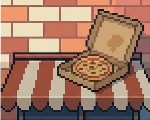
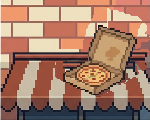
Respaldo: derrotas jugosas en curso
Claude-Session: https://claude.ai/code/session_01WbR3FeT1XB9M7gFpgwas9J

Changed region(s): [[0.3467, 0.05, 1.0, 0.825]]

diff --git a/siete-vidas/herramientas/preparar_arte_nivel.py b/siete-vidas/herramientas/preparar_arte_nivel.py
@@ -862,6 +862,50 @@ PIEZAS_CONSISTENCIA = {
 }
 # El toldo del pasillo, un poco más oscuro (B2): sus rayas terracota y crema bajan este factor de luz.
 OSCURECER_TOLDO = 0.85
+# La caja de pizza parecía flotar contra los ladrillos (lección 4): se recorta por su contorno, se achica y se apoya
+# con la base sobre el toldo (fila BASE_PIZZA de la vista). Detrás se repone la pared y el toldo en espejo.
+ESCALA_PIZZA = 0.85
+BASE_PIZZA = 97
+CORRIMIENTO_FONDO = 52
+
+
+def pizza_en_el_toldo(imagen):
+    """Baja la caja de pizza de la vista del pasillo para que se apoye en el toldo; devuelve la imagen, su caja
+    (x0, y0, x1, y1) y la máscara de la caja."""
+    a = np.asarray(imagen.convert("RGBA")).copy()
+    lum = a[:, :, :3].astype(int) @ np.array([0.299, 0.587, 0.114])
+    zona = np.zeros(lum.shape, bool)
+    zona[0:98, 57:150] = True
+    contorno = ndimage.binary_closing((lum < 100) & zona, structure=np.ones((3, 3)), iterations=2)
+    lleno = ndimage.binary_fill_holes(contorno)
+    etiquetas, cantidad = ndimage.label(lleno)
+    tamanos = ndimage.sum(lleno, etiquetas, range(1, cantidad + 1))
+    caja = etiquetas == (int(np.argmax(tamanos)) + 1)
+    ys, xs = np.where(caja)
+    recorte = a[ys.min():ys.max() + 1, xs.min():xs.max() + 1].copy()
+    recorte[~caja[ys.min():ys.max() + 1, xs.min():xs.max() + 1], 3] = 0
+    # Fondo: la misma vista corrida a la izquierda, donde no hay caja.
+    fondo = a.copy()
+    # Lo que tapaba la caja se repone en espejo desde el borde izquierdo de la caja (ladrillos y rayas del toldo
+    # siguen sin cortes); lo que no alcanza, desde CORRIMIENTO_FONDO px a la izquierda.
+    yy, xx = np.where(ndimage.binary_dilation(caja, iterations=3))
+    borde = int(xs.min()) - 3
+    origen = 2 * borde - xx - 1
+    espejo = origen >= 0
+    fondo[yy[espejo], xx[espejo]] = a[yy[espejo], origen[espejo]]
+    resto = ~espejo
+    fondo[yy[resto], xx[resto]] = fondo[yy[resto], np.maximum(xx[resto] - CORRIMIENTO_FONDO, 0)]
+    chica = Image.fromarray(recorte, "RGBA")
+    chica = chica.resize((round(chica.width * ESCALA_PIZZA), round(chica.height * ESCALA_PIZZA)), Image.NEAREST)
+    x0 = int((xs.min() + xs.max()) / 2 - chica.width / 2)
+    y0 = BASE_PIZZA - chica.height
+    salida = Image.fromarray(fondo, "RGBA")
+    salida.alpha_composite(chica, (x0, y0))
+    mascara = np.zeros(lum.shape, bool)
+    alfa = np.asarray(chica)[:, :, 3] > 0
+    alto, ancho = alfa.shape
+    mascara[y0:y0 + alto, x0:x0 + ancho] = alfa[:max(0, min(alto, lum.shape[0] - y0)), :max(0, min(ancho, lum.shape[1] - x0))]
+    return salida, (x0, y0, x0 + chica.width, y0 + chica.height), mascara
 
 
 def sin_blanco_puro(nombre):
@@ -884,11 +928,13 @@ def consistencia():
             a = np.asarray(recorte.convert("RGBA")).copy()
             a[:, :, 3] = 255
             final = Image.fromarray(a, "RGBA").resize(tamano, Image.NEAREST)
+            final, caja, mascara = pizza_en_el_toldo(final)
             a = np.asarray(final).copy().astype(float)
             toldo = np.zeros(a.shape[:2], bool)
             toldo[int(tamano[1] * 0.52):, :] = True
-            a[toldo, :3] *= OSCURECER_TOLDO
+            a[toldo & ~mascara, :3] *= OSCURECER_TOLDO
             final = Image.fromarray(a.astype(np.uint8), "RGBA")
+            print(f"Vista del pasillo: caja de pizza en {caja} (Nivel1.PIZZA)")
         else:
             final = escalar(recorte, tamano)
         final.save(DESTINO / f"{nombre}.png")

diff --git a/siete-vidas/memoria/05-estado-actual.md b/siete-vidas/memoria/05-estado-actual.md
@@ -8,6 +8,7 @@ Actualizado: 2026-10-20 (tercera ronda terminada: jugo, letra, claves, opciones,
 
 ## En curso
 
+- **Derrotas jugosas (2026-10-20, 0 créditos; decisión en `01-decisiones.md`):** pieza `ReaccionDerrota` con datos `DatosDerrota` conectada a `Vida.murio`. El ratón destella, sale volando girando, hace «¡POP!» y se desarma en piezas que quedan en el piso (la llave gira sola unos segundos) con un resorte con alma que sube; A.S.P.I. destella fuerte, rebota contra la pared con cámara lenta (solo ella) y deja una montaña de pelusa. Felipe lo comenta sin culpa. Además, la caja de pizza de la ventana del pasillo ahora se apoya en el toldo. Pruebas nuevas en `prueba_componentes`. **Sigue:** el arte de Gemini (`derrotas.png`) para reemplazar los provisionales; mostrar los GIF al creador. No se tocó a Felipe.
 - **Tercera ronda (2026-10-20, 0 créditos de código; las 3 animaciones de Felipe costaron 78 créditos, quedan 140):** `RecetaJugo` y Zoomies con anticipación, líneas, cámara, choque y derrape (siguen apagados en el nivel 1); letra pixel en toda la interfaz (Pixel Operator y Silkscreen) y arreglos de la revisión de consistencia (B3, G3, G4, G5, G10, M4); textos por clave; pantalla de opciones desde la pausa; recarga de snacks (plato +1, descansos hasta 3). **Menú «Decreto real»** en la pausa: Ficha de Su Majestad (retrato, kilos, humor y barras de defensa, carisma, ataque y peso con frase; solo de chiste; el peso se ve solo ahí), pergamino con Felipe sentado en su cojín y la corona aparte, y botones de pergamino que estampan un sello de lacre con destellos. **Toda la interfaz con el mismo kit** (HUD, diálogo, libreta, resumen, logro, barra del jefe, carteles). Se borró el menú de estambre. **Arte de la casa:** marco de ventana de Gemini en las 4 ventanas, vista del pasillo con toldo más oscuro, teclado, microondas, monitor, vaso y pollo; el armario de Gemini no calza con la escalera (sigue el de código). **Animaciones nuevas desde Felipe A:** `derrape` (Zoomies), `sentarse`/`sentado` (ocio, baranda del balcón y cojín de la pausa) y `entrar_puerta` (antes del fundido). Todas las pruebas en 0 fallos y el bot con la agenda 8 de 8. **Tres lugares:** Zoomies, «Comer un snack del bolsillo», Peso, Entrar por una puerta y Ocio en la tabla de Acciones (02 y ficha local regenerada; la versión en línea la publica el coordinador), juego con pruebas. **Sigue:** mostrarle al creador las capturas antes y después y el GIF del sello; publicar la ficha; rehacer el derrape (pendiente en 04).
 - **Segunda ronda de estructura: juego e interfaz (hecha 2026-10-20, 0 créditos; decisión en `01-decisiones.md`, mapa y recetas en `07-arquitectura.md`).** Felipe con un archivo por estado (`entidades/felipe/estados/`, 872 → 603 líneas); la pelea de A.S.P.I. como `PeleaJefe` + `datos/jefes/aspi.tres` + cuatro conductas (embestida, soplido, bola de pelo, limpiar; 739 → 433); Valeria en `Valeria` + `AspectoValeria` + `RutaValeria` (727 → 494); carpetas por responsabilidad; polvo de partículas en una sola fábrica. Interfaz: `BarraVida` (corazones y barra del jefe, por señales de `Vida`), `ContadorRecurso`, `Cartel`, `MenuUI` (pausa con botones, teclado y mando), cuadro de diálogo en escena, tema central `datos/ui/tema.tres`, pila de pantallas `GestorPantallas`, textos con `tr()` en `traducciones/textos.csv` y `Controles` (InputMap y remapeo guardado). Pruebas nuevas: `prueba_interfaz.gd` y estados y conductas en `prueba_componentes.gd`. Todas las pruebas en 0 fallos, el bot con la agenda 8 de 8 y capturas iguales salvo la pausa (ahora menú). **No se tocó a Felipe** (ni acciones, ni animaciones, ni controles): no aplica la regla de los tres lugares. **Sigue:** traducir de verdad las frases de Felipe y Valeria (hoy pasan por `tr()` pero siguen en `Frases`); una pantalla para remapear controles (la base `Controles.remapear/guardar` ya está); la pieza `RecetaJugo` se cuelga de los estados de Felipe.
 - **Reordenamiento de la arquitectura del juego (hecho 2026-10-20, 0 créditos; decisión en `01-decisiones.md`, detalle y recetas en `07-arquitectura.md`).** Reordenamiento puro en 4 etapas, cada una con todas las pruebas en 0 fallos, el bot completando el nivel (agenda 8 de 8) y capturas de cada cuarto comparadas píxel a píxel contra el código original (solo cambian partículas, rótulos que giran al azar y cosas animadas). (1) **Piezas** en `juego/scripts/componentes/` (Vida, RecibeGolpes, HaceDano, MovimientoPatrulla, Tirable, Aranable, OyeMaullido, Asustable, SueltaRecompensa, SombraContacto) y el ratón y A.S.P.I. como el mismo `Enemigo` con otros datos (ya no hay herencia). (2) **Datos** en `juego/datos/` (`.tres`) y **escenas** en `juego/escenas/entidades/`. (3) `sala.gd` (2263 líneas) se partió en `Nivel` (constructor genérico), `Nivel1` (datos), `GuionNivel1` (eventos), `ValeriaPorLaCasa`, `FinalBalcon`, `ArteNivel1` y `DecoradoNivel1`; la escena principal es `escenas/nivel_1.tscn`. (4) `felipe.gd` (1143) baja a 872 con sus partes `EfectosFelipe`, `AnimadorFelipe` y `ManasFelipe`; `batalla_aspi.gd` baja a 739 (dibujo aparte; las bolas de pelo usan HaceDano). Prueba nueva `prueba_componentes.gd` (34 comprobaciones, con un enemigo armado solo con datos). Además: **arreglada la prueba inestable** de la pelea (fallaba 1 de cada 4: si A.S.P.I. se llenaba bajo la silla del estudio, Felipe caía en el asiento, por encima de la franja donde se la pisa; ahora baja por la silla como un jugador; 8 de 8 seguidas) y desaparecieron 4566 errores de `prueba_nivel` (A.S.P.I. y los ratones leían a un Felipe ya liberado). **No se tocó a Felipe** (ni acciones, ni animaciones, ni controles): no aplica la regla de los tres lugares. **Sigue:** hecho en la segunda ronda (arriba).

diff --git a/siete-vidas/memoria/04-pendientes.md b/siete-vidas/memoria/04-pendientes.md
@@ -99,6 +99,12 @@ Idea tomada de un video sobre cómo hacer que un dash se sienta bien (5 pasos). 
 - Los Zoomies siguen apagados en el nivel 1 (se ganan en Downtown).
 - [ ] Rehacer la animación de derrape: hoy se inclina poco y no clava las patas delanteras. Pedirla de nuevo desde Felipe A con `pixel-engine-v1.5` (≈26 créditos), cuadro por cuadro, cuando se activen los Zoomies (Downtown). (Sugerencia del creador, 2026-10-20.)
 
+## Derrotas jugosas (aprobadas por el creador, 2026-10-20)
+
+- [x] **Lógica, datos y pruebas (hechos 2026-10-20):** `ReaccionDerrota` + `DatosDerrota` (`datos/derrotas/raton.tres` y `aspi.tres`), `PiezaSuelta`, frases de Felipe «derrota_raton» y «derrota_aspi», cámara lenta del golpe final de A.S.P.I. movida a su derrota.
+- [ ] **Arte de Gemini** (`diseno/encargo-gemini-derrotas.md`, `arte/referencias/gemini/derrotas.png`): al llegar, recortar cada pieza al borde opaco, a la densidad del ratón, sin blanco puro, con los nombres que ya usan los datos (`derrota_carcasa`, `derrota_llave_1` a `_4`, `derrota_resorte`, `derrota_resorte_alma`, `derrota_tornillo`, `derrota_engranaje`, `derrota_pelusa`; la nube, en `color_nube`/partículas). Hoy la carcasa es `raton_volcado` y lo demás son provisionales de pixel de `PiezaSuelta`.
+- [ ] **Mostrar al creador:** `derrota-raton.gif` y `derrota-aspi.gif`.
+
 ## Menú «Decreto real» (elegido por el creador, 2026-10-20)
 
 - [x] **Pausa «Decreto real» (hecha 2026-10-20):** Ficha de Su Majestad a la izquierda (retrato, kilos, humor y barras de defensa, carisma, ataque y peso con su frase; la velocidad, solo chiste), pergamino «Decretos de Su Majestad» con Felipe en su cojín y la corona al centro, y 4 botones de pergamino a la derecha que estampan el sello de lacre con destellos al elegir.

diff --git a/siete-vidas/memoria/01-decisiones.md b/siete-vidas/memoria/01-decisiones.md
@@ -69,6 +69,7 @@ Actualizado: 2026-10-19 (PARTE B del nivel 1 v4). Detalle completo en la biblia 
 - **Mañas:** 17 equipables con ventaja y precio; 2 ranuras al inicio, hasta 6 (10 calcetines = 1 ranura).
 - **Acciones de gato:** pedir comida, infiltrarse, popo táctico, tirar cosas de la mesa, meterse en cajas, peleas en los techos, casas paralelas.
 - **Combate:** enemigos comunes fáciles y graciosos; jefes con reto. Felipe nunca golpea humanos (los vence con trampas); los animales derrotados huyen ofendidos.
+- **Derrotas jugosas (2026-10-20, aprobado por el creador):** vencer a un juguete o máquina tiene 5 pasos: destello por silueta y congelado, sale volando, «¡POP!» (se desarma o escupe lo que tenía), cámara lenta solo en el golpe final de un jefe y una marca que queda. El ratón de cuerda se desarma en carcasa, resorte, llave (que sigue girando), tornillos y engranajes, con un «resorte con alma» que sube; A.S.P.I. rebota contra la pared y deja una montaña de pelusa con un calcetín y una croqueta. Felipe lo comenta sin culpa (1 línea). Anti-pilar: nada sufre ni sangra. Por datos: `DatosDerrota` + pieza `ReaccionDerrota`.
 - **Jefes:** A.S.P.I., Hermanos Callejeros, Michi-Star, Tanque, el Patrón, Rey Rata, Kaiser, A.S.P.I. MAX (final).
 - **Guía anti-frustración:** tutorial jugando, "El Manual de Su Majestad", pistas tras 3 muertes, mapa con iconos de poder faltante, rascador de entrenamiento.
 - **Accesibilidad:** controles reasignables, subtítulos ajustables, modo daltónico, modo asistido que no bloquea logros.

diff --git a/siete-vidas/memoria/03-arte-y-herramientas.md b/siete-vidas/memoria/03-arte-y-herramientas.md
@@ -119,7 +119,7 @@ Hojas `arte/referencias/gemini/consistencia-casa.png` y `correccion-estilo.png`,
 | Pieza | Tamaño en el juego | Dónde |
 | --- | --- | --- |
 | `ventana_casa.png` (marco de madera con parante en cruz y alféizar, huecos transparentes) | 215 × 170, hueco de 150 × 120 en (32, 23) | Las 4 ventanas de código: cocina, dormitorio, estudio (`FondoApartamento._dibujar_ventana`) y pasillo (arte de la capa pared, con el alféizar pisable a 90 cm) |
-| `vista_pasillo.png` (patio de luz, toldo del vecino un 15 % más oscuro y caja de pizza abierta) | 150 × 120, opaca | Detrás del vidrio del pasillo; el vapor de la pizza va por código |
+| `vista_pasillo.png` (patio de luz, toldo del vecino un 15 % más oscuro y caja de pizza abierta) | 150 × 120, opaca | Detrás del vidrio del pasillo; el vapor de la pizza va por código. La caja se recorta por su contorno, se achica al 85 % y se apoya sobre el toldo (`pizza_en_el_toldo`: parecía flotar contra los ladrillos, lección 4) |
 | `teclado.png` | 52 × 24 | Escritorio del estudio (pisado, se oscurece) |
 | `monitor.png`, `microondas.png`, `vaso.png`, `pollo.png` (correccion-estilo) | 44 × 48, 98 × 54, 24 × 32, 64 × 50 (el pollo pasa de 1,6 : 1 a 1,28 : 1) | Reemplazan a los anteriores en el mismo lugar |
 
